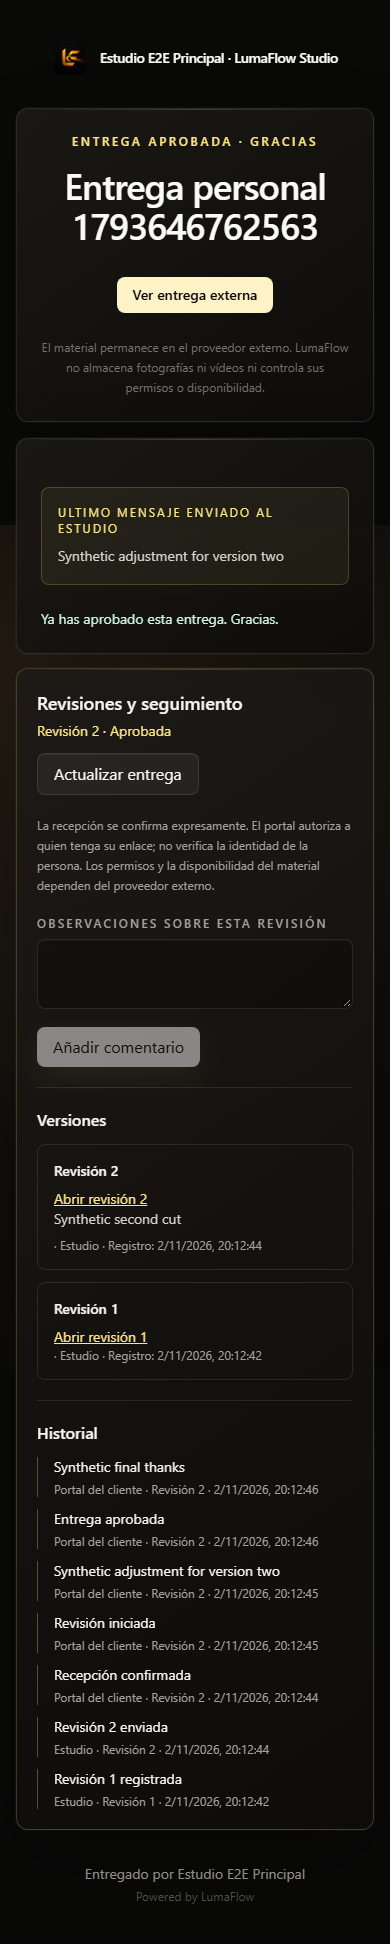
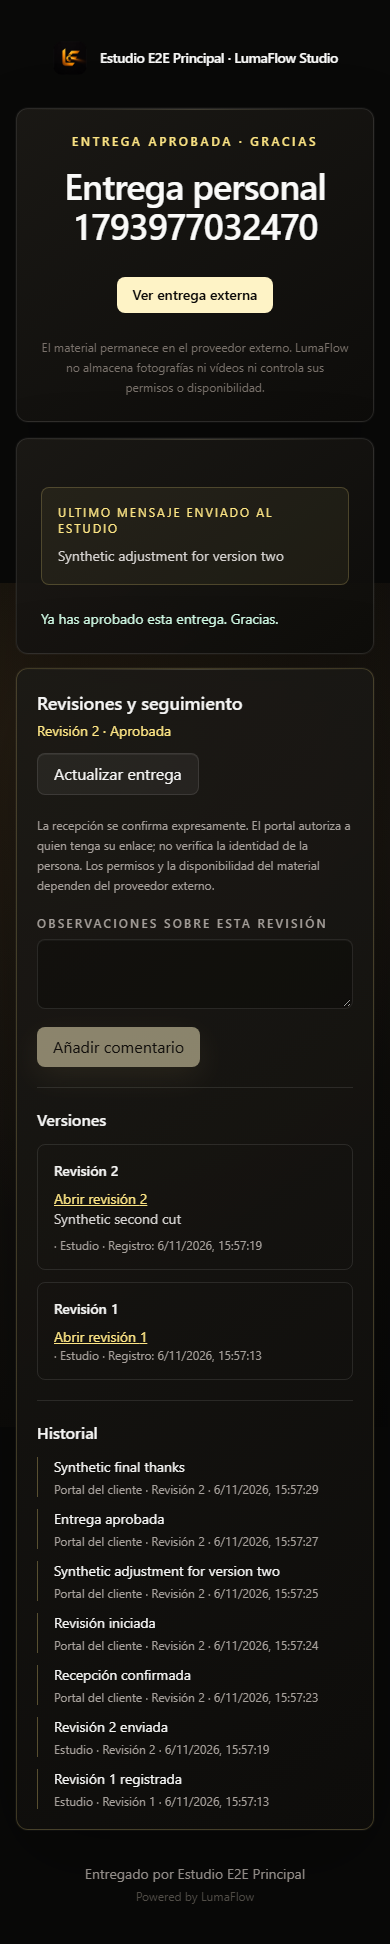
docs(integration): record consolidation, production findings and release gates
Add the consolidation release assessment, document that merging main
deploys both layers and runs migrations, the bounded database wait, the
preview-scoped smoke check and the health probe's dependency on the
default disk, note the Vercel production deployment of the unmerged SEO
branch, and the Vitest timeout and CRLF format-check caveats.

diff --git a/docs/plans/2026-11-06-consolidation-release-assessment.md b/docs/plans/2026-11-06-consolidation-release-assessment.md
@@ -1,0 +1,112 @@
+# Consolidación de ramas y evaluación de publicación — 06/11/2026
+
+Rama local: `chore/consolidate-lumaflow` (sin upstream; no se ha hecho push). Base: `origin/main` `03676ea`. Esta evaluación no ejecuta merge, push, despliegue, migraciones remotas ni cambios en proveedores, credenciales o datos productivos.
+
+## 1. Estado remoto verificado
+
+Tras `git fetch --all --prune` el estado coincidía con el esperado: `main` `03676ea`, `feat/backup-b2-storage` `5525b04` (11 commits por delante, 0 por detrás) y `feat/seo-geo-public-pages` `76c52dd` (4 por delante, 0 por detrás). Ambas parten directamente de `main`.
+
+## 2. Trabajo recuperado
+
+| Origen | Contenido |
+| --- | --- |
+| `feat/backup-b2-storage` `efd6ef5` | Backup privado en Backblaze B2 (`RemoteBackupService`, `--remote`, workflow programado) — **desactivado** |
+| Sprint 1 / 1.5 (`22a2eb8`…`a46c72c`) | Fronteras de asociación por workspace, portales transaccionales e idempotentes, redacción de logs y guardas de correo, parches de dependencias, gate de auditoría con excepción acotada, LF en frontend |
+| `5525b04` "global changes" | Sprints 2–6: Creative Workspace y briefing, planificación de producción/tomas, plantillas y postproducción, revisiones de entrega, apoyo voluntario (sin activar), cuatro migraciones aditivas, tests y E2E. Incluye una copia anterior de casi todo el SEO |
+| `feat/seo-geo-public-pages` | Exclusivos: `e2e/pwa/upgrade.spec.js`, `playwright.preview.config.js` + `preview/seo.spec.js`, capturas SEO, §15–16 de `SEO_GEO_AUDIT.md` (decisión NO-GO), checkout con historial completo en CI |
+
+Ya presente en `main` y no duplicado: hardening V1, Sentry opcional, backup local/drill (#23), scheduler protegido (#34), conservación de sesión (#33).
+
+## 3. Integración y conflictos
+
+Orden: merge `--no-ff` de la rama de backups y después de la SEO (`5c9165c`, `abd9166`). 41 de 46 archivos compartidos eran idénticos byte a byte.
+
+| Archivo | Resolución |
+| --- | --- |
+| `.github/workflows/ci.yml` | Se conservan auditorías pnpm/Composer y la prueba de proveedores de apoyo; se adoptan los nombres de paso SEO y `fetch-depth: 0` |
+| `package.json` | Overrides de Sprint 5.5 (glob 14.0.3, minimatch 11.0.4) y parche de deepmerge; se descarta `brace-expansion@2` (ya no existe en el árbol) y la clave `test:pwa` duplicada que generó el auto-merge |
+| `pnpm-lock.yaml` | Lock de la línea de backups; `pnpm install --frozen-lockfile` lo valida contra los manifiestos fusionados |
+| `docs/SEO_GEO_AUDIT.md` | Versión SEO (superconjunto, con §15–16) |
+| `docs/testing.md`, `docs/deployment.md` | Contenido de sprints + sección de Preview/actualización PWA |
+| Conflictos semánticos sin marca | Secciones SEO duplicadas en `api.md`, `architecture.md` y `roadmap.md` (`1cd2fdc`); `test_plan.md`, archivo genérico no versionado arrastrado por "global changes", retirado (`15373bd`) |
+
+## 4. Defectos corregidos
+
+| Commit | Defecto confirmado | Corrección |
+| --- | --- | --- |
+| `7955b79` | CI de `5525b04` falló por timeout de 5 s en el primer test de `DeliveryReviewPanel` y `JobDetailPage` (<1 s en local) | `testTimeout: 15000`; aserciones intactas |
+| `24cfe7e` | `composer audit --locked` falló en CI: 7 avisos Symfony publicados el 04/11 (incl. CVE-2026-118514/118516) | Actualización 8.1.x/3.x/1.x de filesystem, http-foundation, http-kernel, routing y dependencias; `composer.json` sin cambios |
+| `4550980` | El entrypoint esperaba a MySQL indefinidamente y descartaba stderr | Espera acotada (`DB_WAIT_TIMEOUT`, 180 s) y salida con clase/código PDO, sin host/usuario/contraseña |
+| `d9ed3bc` | El smoke productivo se ejecutaba tras despliegues `Preview` contra el dominio productivo (falsos fallos 41513813116, 41523623975, 42045469155) | Se excluye `environment == Preview`; producción/Render/schedule conservan todas las aserciones; en fallo imprime el resumen público de salud |
+
+## 5. Incidencias productivas: hechos, hipótesis y límites
+
+**Confirmado (GitHub API, sondas HTTP públicas de solo lectura):**
+
+- Smoke programado verde hasta 03/11 06:55 UTC; desde 03/11 19:32 todos los runs fallan con **503 en `/api/health`** tras 13 reintentos, sin cambio de código en `main`.
+- 03/11 13:52 UTC: redeploy en Render de `main` `03676ea`, estado `failure` a las 14:10 (~18 min).
+- 03/11 13:56 UTC: Vercel creó un deployment **`Production` desde `76c52dd`** (rama SEO no fusionada). El frontend productivo sirve hoy HTML prerenderizado con H1 (entrada `index-BV5zAgjO.js`), es decir, la rama con decisión NO-GO. La API sigue en `main`.
+- 06/11: `https://lumaflow-api.aleviclop.dev/api/health`, `/up` y `https://lumaflow-studio-api.onrender.com/api/health` no devuelven ningún byte en 110 s; `/login` del frontend responde 200.
+
+**Hipótesis más compatible (no confirmada):** la instancia no llega a servir porque el arranque queda bloqueado o falla antes de `serve`: espera infinita a MySQL (TiDB inalcanzable, credenciales o cuota), o `migrate --force` fallando. Encaja con el deploy fallido por tiempo, los 503 del proxy y las peticiones colgadas. Alternativa: dependencia `down` en la sonda (DB, caché o disco `s3`; ninguna funcionalidad usa el disco por defecto, pero su fallo da 503). Sin logs de Render no se puede distinguir.
+
+**500 en portales públicos** (02/11, `SEO_GEO_AUDIT.md` §15–16): siguen sin diagnóstico. El código resuelve ausencias con `firstOrFail`/404 y `SearchIndexingTest` lo confirma en local; posible deriva de esquema productivo, no demostrada.
+
+**Evidencia no disponible:** logs de Render, Sentry, consola de TiDB/R2/Vercel. No se inventa una causa raíz. Siguiente paso del operador: logs del deploy del 03/11 y del arranque actual, estado/cuota de TiDB, credenciales del bucket `s3`, request IDs `seo-release-negative-20261102` y `seo-final-evaluation-20261102`, y cómo se creó el deployment de producción de Vercel.
+
+## 6. Seguridad y compatibilidad
+
+- Aislamiento por workspace y 404 ajenos: cubiertos por `WorkspaceAssociationSecurityTest` y las suites de cada sprint; sin cambios de semántica en esta consolidación.
+- API: cambios aditivos de sprints documentados en `docs/api.md`; frontend y backend se integran desde la misma rama.
+- BD: cuatro migraciones nuevas (Sprints 2–5), aditivas salvo `add_delivery_revisions`: `deliveries.client_id` pasa a nullable con `->change()` sobre una columna con clave foránea y hace backfill de todas las entregas. **No ensayado en MySQL/TiDB.**
+- Dependencias: `pnpm audit --prod` 0 avisos; `composer audit --locked` 0 avisos; auditoría pnpm completa: solo deepmerge 4.3.1 (bajo, parche local verificado, gate `check-security-audit.mjs` PASS con warning).
+- Backups: código integrado y desactivado (`--remote` opt-in, workflow condicionado a `vars.PRODUCTION_BACKUP_ENABLED`, runs `skipped`, sin runner de scheduler en Render).
+
+## 7. Validación ejecutada (Windows, Node 24.22.2, pnpm 10.34.1, PHP 8.4.27 portátil)
+
+| Comprobación | Resultado |
+| --- | --- |
+| `pnpm install --frozen-lockfile` | PASS |
+| Formato frontend | PASS con `prettier --check --end-of-line auto` (`format:check` literal marca CRLF de la copia Windows; los blobs son LF) |
+| `pnpm --dir frontend run lint` (oxlint) | PASS |
+| Vitest | PASS, 42 archivos / 228 tests |
+| `pnpm run build` | PASS (29 entradas precache) |
+| `pnpm run test:pwa` (SEO + offline + actualización desde `03676ea`) | PASS, 11/11 |
+| `pnpm run test:support` | PASS, 1/1 |
+| `pnpm run test:audit` | PASS, 9/9 |
+| `pnpm audit --prod` / `composer audit --locked` | PASS, 0 avisos |
+| `php vendor/bin/pint --test` | PASS |
+| `php artisan test` (SQLite en memoria) | PASS, 249 tests / 2363 aserciones |
+| `pnpm run test:e2e` (SQLite temporal aislada) | E2E_RESULT |
+| Entrypoint | Stub de `php`: aborta a los 4 s con BD caída y continúa con BD disponible; PHP real contra puerto cerrado: `PDOException code 2002`, sin credenciales |
+
+No ejecutado: CI remoto del nuevo SHA (requiere push), imágenes Docker/Nginx (sin Docker local), MySQL/TiDB y B2 reales, smoke del Preview protegido, validadores YAML/actionlint.
+
+## 8. Bloqueos de producción y decisión
+
+**NO-GO para fusionar en `main`.** El código consolidado es coherente y pasa las suites locales, pero fusionar despliega frontend y API y aplica migraciones de forma automática, y:
+
+1. La API productiva no responde y la causa no está diagnosticada.
+2. No hay backup recuperable activo ni ensayo de las cuatro migraciones (en especial `client_id` nullable + backfill) sobre una copia MySQL/TiDB.
+3. El frontend productivo ya sirve una rama no fusionada; hay que confirmar la rama de producción de Vercel y cómo se creó ese deployment.
+4. Siguen pendientes de 16.6: los 500 de portales, el login real y el registro de la PWA en un entorno QA autorizado.
+5. Falta CI verde del SHA final.
+
+**Condiciones para un GO condicionado:** restaurar la API con diagnóstico registrado; backup verificado (local o B2) y drill de restauración; ensayo de migraciones en un clon TiDB sintético o autorizado; rama de producción de Vercel = `main`; CI verde del SHA exacto; smoke de producción verde; operador disponible para rollback; autorización expresa.
+
+## 9. Procedimiento de merge y rollback (preparado, no ejecutado)
+
+1. `git fetch`; si `main` avanzó, rebasar o fusionar y repetir la validación completa.
+2. Push de `chore/consolidate-lumaflow` y PR hacia `main`, con CI completo verde.
+3. Backup verificado de la BD productiva y anotar los IDs de deployment actuales de Vercel y Render.
+4. Merge (merge commit, sin squash, para conservar la trazabilidad de ambas ramas). Vigilar el deploy de Render (migraciones) y el de Vercel.
+5. Smoke inmediato: seis páginas SEO, robots/sitemap, login sintético, 401/404, portales con ID inexistente → 404 y actualización de la PWA.
+6. **Rollback:** Vercel Instant Rollback al deployment anterior; Render rollback al deploy anterior. Las migraciones son aditivas: no ejecutar `migrate:rollback`, sino una corrección hacia delante o restaurar el backup. Un service worker ya instalado no se revierte al instante.
+
+## 10. Antes de borrar las ramas remotas originales
+
+- `chore/consolidate-lumaflow` fusionada en `main` mediante una PR con CI verde.
+- `git branch -r --contains 5525b04` y `--contains 76c52dd` incluyen `origin/main` (es decir, `git merge-base --is-ancestor` devuelve 0 para ambas).
+- Producción estable tras el release, con el smoke verde al menos 24 h.
+- Vercel ya no apunta su producción a `feat/seo-geo-public-pages` ni a ninguna otra rama distinta de `main`.
+- Autorización expresa del responsable. Opcional: etiquetar ambos heads (`archive/…`) antes de borrarlas.

diff --git a/docs/deployment.md b/docs/deployment.md
@@ -1,6 +1,8 @@
 # Despliegue
 
-## SEO P0/P1 — build y rutas locales, sin desplegar
+## SEO P0/P1 — build y rutas
+
+> **Estado observado el 06/11/2026:** el frontend productivo de Vercel sirve desde el 03/11/2026 13:56 UTC un deployment `Production` creado desde `76c52dd` (`feat/seo-geo-public-pages`, no fusionada en `main`), pese a la decisión NO-GO de [§16.6](SEO_GEO_AUDIT.md#166-decisión-y-condiciones-para-reconsiderar). La API sigue en `main`. Antes de fusionar, confirmar en Vercel qué rama es la de producción y cómo se creó ese deployment.
 
 `pnpm run build` genera automáticamente seis documentos comerciales, `app-shell.html`, `404.html`, robots y sitemap. No hay dependencias nuevas, variables nuevas ni servicio SSR. El origen canónico es el público de LumaFlow; localhost/previews no lo sustituyen por su host. Los builds de preview deben mantener la protección de indexación propia del proveedor y no publicarse como dominios de producto.
 
@@ -36,7 +38,7 @@ La SPA se construye con:
 VITE_API_URL=https://lumaflow-api.aleviclop.dev/api
 ```
 
-El backend usa `FILESYSTEM_DISK=public` en local. No se requiere S3: no hay originales que alojar.
+El backend usa `FILESYSTEM_DISK=public` en local. No se requiere S3 para el producto: no hay originales que alojar. El `FILESYSTEM_DISK=s3` de `render.yaml` solo lo ejercita la sonda de salud (ver más abajo).
 
 ## Despliegue automático y controles
 
@@ -48,6 +50,32 @@ Cada `push` o merge a `main` inicia el ciclo de entrega:
 4. Vercel despliega automáticamente `frontend/` con Node 22.
 5. Render espera a que los checks de GitHub terminen correctamente antes de desplegar la API.
 6. Al finalizar un despliegue, y además cada seis horas, se comprueban el login público y `/api/health`.
+
+**Fusionar en `main` equivale a desplegar ambas capas.** El entrypoint del backend
+ejecuta `php artisan migrate --force` en cada arranque: cualquier migración pendiente
+se aplica sobre la base productiva sin paso manual. Tras la consolidación de
+noviembre de 2026 hay cuatro migraciones aditivas nuevas (Sprints 2–5); ver el
+[informe de consolidación](plans/2026-11-06-consolidation-release-assessment.md)
+antes de fusionar.
+
+El entrypoint espera a MySQL como máximo `DB_WAIT_TIMEOUT` segundos (180 por
+defecto). Si no conecta, termina con código distinto de cero y registra solo la
+clase y el código de la excepción PDO (nunca host, usuario ni contraseña). Antes
+la espera era infinita y silenciosa: una base inalcanzable dejaba el contenedor
+sin servir ni explicar el motivo.
+
+El smoke de producción no se ejecuta para despliegues `Preview` de Vercel (sus
+aserciones apuntan al dominio productivo fijo y generaban falsos fallos). Los
+despliegues de producción, Render y la ejecución programada mantienen todas las
+aserciones; si fallan, el job imprime el resumen público de `/api/health` y su
+código HTTP.
+
+`/api/health` marca `down` (503) si falla la base, la caché **o el disco por
+defecto**. En producción `render.yaml` declara `FILESYSTEM_DISK=s3`, aunque ninguna
+funcionalidad usa ese disco (solo la sonda de salud y, aparte, `backup_s3`). Unas
+credenciales S3/R2 caducadas bastan para devolver 503 y hacer fallar el health
+check de Render. Revisar ese disco forma parte del diagnóstico operativo; no se
+relaja la sonda en código.
 
 Los workflows están en `.github/workflows/ci.yml` y
 `.github/workflows/production-smoke.yml`. Un fallo queda visible en la pestaña

diff --git a/docs/SEO_GEO_AUDIT.md b/docs/SEO_GEO_AUDIT.md
@@ -707,3 +707,7 @@ Conclusión: **sin conflictos ni commits inesperados respecto al main consultado
 El NO-GO se debe a que falta verificar auth real y PWA en el entorno de publicación/QA autorizado, los 500 reales siguen sin diagnóstico y no hay evidencia suficiente de release/esquema/objetivo de rollback de Render. No se afirma que la PR cause esas incidencias ni se convierte una limitación del entorno Preview en un defecto nuevo de aplicación. La política del repositorio impide fusionar con checks fallidos; el smoke productivo rojo permanece visible.
 
 Para pasar a GO condicionado: cerrar la validación de auth/PWA en un entorno admitido, obtener diagnóstico y tratamiento aceptado de los 500, confirmar rollback del backend y coordinación de gates/autodeploy, aceptar el riesgo residual de toolchain y repetir integración/CI si cambia main. La autorización expresa para merge/despliegue sigue siendo necesaria. En esta sesión solo se actualizan el informe y la PR; no se ejecutan estos pasos de publicación.
+
+## 17. Observación posterior — 06/11/2026
+
+Según la API de GitHub, Vercel creó el 03/11/2026 a las 13:56 UTC un deployment `Production` desde `76c52dd`. El dominio productivo sirve desde entonces el HTML prerenderizado de esta rama, sin que se fusionara en `main` y pese a la decisión NO-GO de §16.6. Ese mismo día, a las 13:52, falló un redeploy de la API en Render y desde las 19:32 el smoke recibe 503 en `/api/health`. No se ha modificado nada en los proveedores. La integración con la rama de backups y la evaluación actualizada están en el [informe de consolidación](plans/2026-11-06-consolidation-release-assessment.md).

diff --git a/docs/testing.md b/docs/testing.md
@@ -141,6 +141,10 @@ La suite comparte una unica base SQLite, asi que `playwright.config.js` fija `fu
 
 El job `E2E journeys` de `.github/workflows/ci.yml` instala PHP 8.4 con `pdo_sqlite`, Node 22, las dependencias de Composer y del workspace, el navegador Chromium de Playwright y ejecuta `pnpm run test:e2e`. El informe HTML se publica como artefacto cuando falla la suite.
 
+Vitest usa `testTimeout: 15000`. El primer test de las suites de página pesadas (`DeliveryReviewPanel`, `JobDetailPage`) paga la importación en frío de rutas lazy y superó los 5 s por defecto en runners de dos núcleos (run 42045414965), aunque tarda menos de 1 s en local. Las aserciones no cambian; un test colgado sigue fallando.
+
+En Windows con `core.autocrlf=true`, `format:check` puede marcar como mal formateados archivos que Git guarda con LF y que la copia de trabajo tiene en CRLF. CI (Linux) comprueba los blobs LF. Para comprobar el contenido en local sin reescribir archivos: `pnpm --dir frontend exec prettier --check --end-of-line auto src`.
+
 ## Como elegir donde probar
 
 Sprint 1 añade `WorkspaceAssociationSecurityTest` (dos estudios, roles, referencias nuevas/legacy, historial, importación, calendario/reservas y retirada de contexto), `PublicDeliverySecurityTest`, `DeliveryConcurrencyTest`, `AuditLogPrivacyTest` y `ServerLogPrivacyTest`. Se amplían `ContractPortalTest`, `SentryScrubberTest`, Vitest Sentry y el E2E de entregas.

diff --git a/docs/roadmap.md b/docs/roadmap.md
@@ -2,6 +2,10 @@
 
 Estado tras el hardening V1 (#3–#12 mergeados). Lo implementado ya no aparece como pendiente.
 
+## Consolidación de ramas — noviembre de 2026, local y sin publicar
+
+`chore/consolidate-lumaflow` integra `feat/backup-b2-storage` (B2 privado, Sprints 1–6) y `feat/seo-geo-public-pages` (SEO/GEO P0/P1, regresión de actualización PWA) sobre `main` `03676ea`. Corrige la espera infinita del entrypoint ante una base inalcanzable, los falsos fallos del smoke en Previews y los timeouts de arranque de dos suites Vitest en CI. Los backups siguen desactivados. No hay push, merge ni despliegue: resultados, bloqueos y decisión en el [informe de consolidación](plans/2026-11-06-consolidation-release-assessment.md).
+
 ## SEO/GEO P0/P1 — implementado localmente, con verificaciones externas pendientes
 
 Metadatos por ruta, allowlist comercial, robots/sitemap generados, exclusión de superficies operativas, headers API, copy coherente y HTML público prerenderizado/hidratado sin cambiar React/Vite + Laravel. El CRM conserva su SPA; no se añaden pagos, alojamiento de originales, blog ni dependencias. Se mantienen estilos y animaciones.
